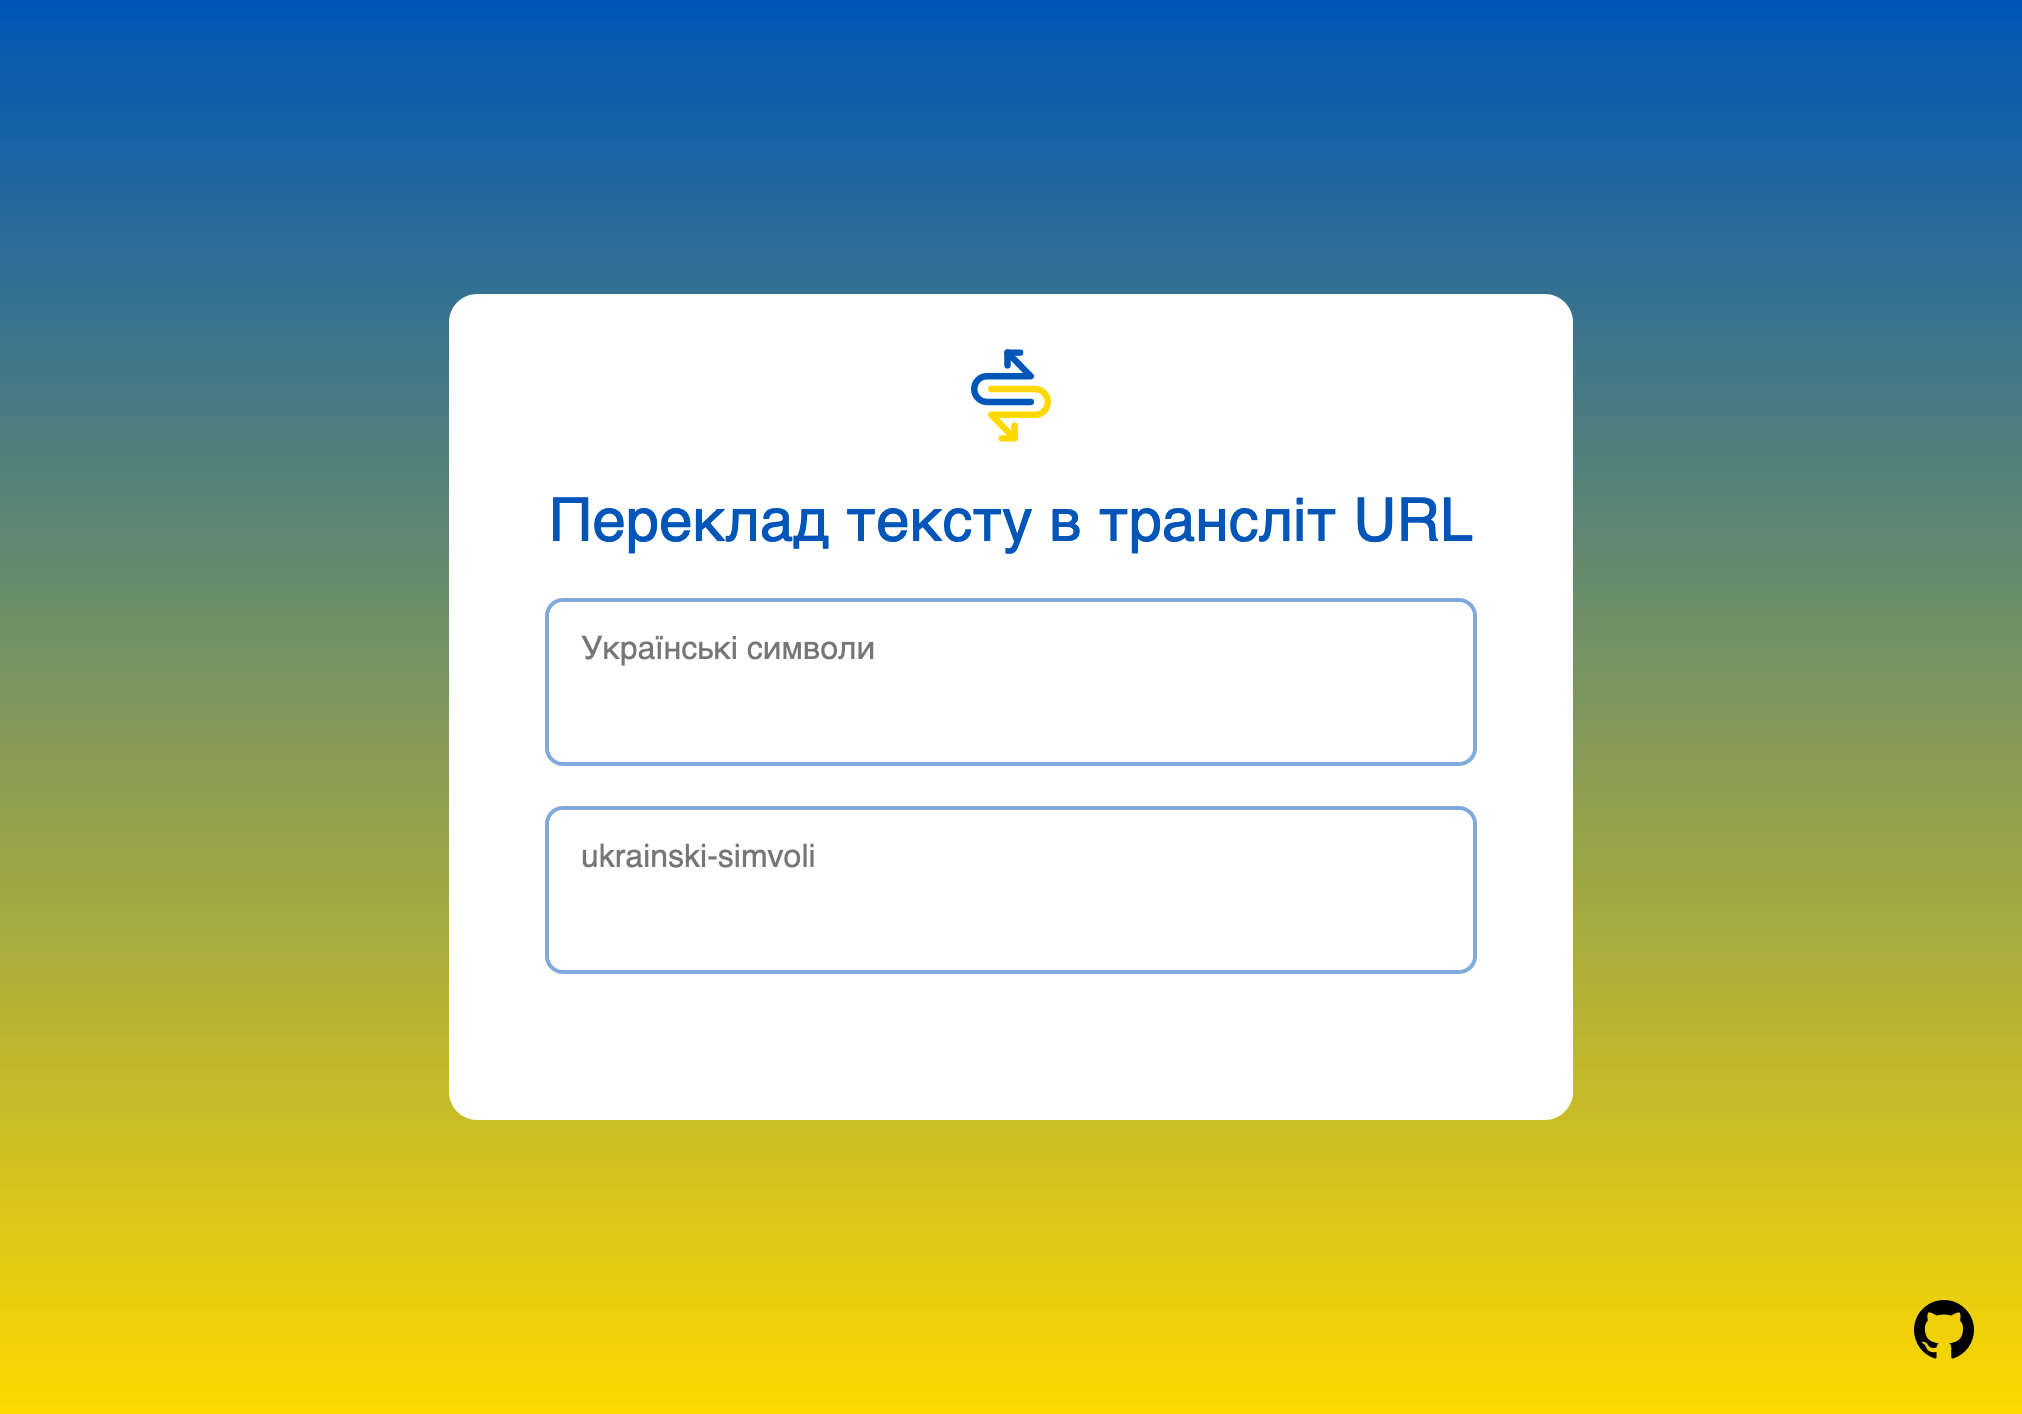
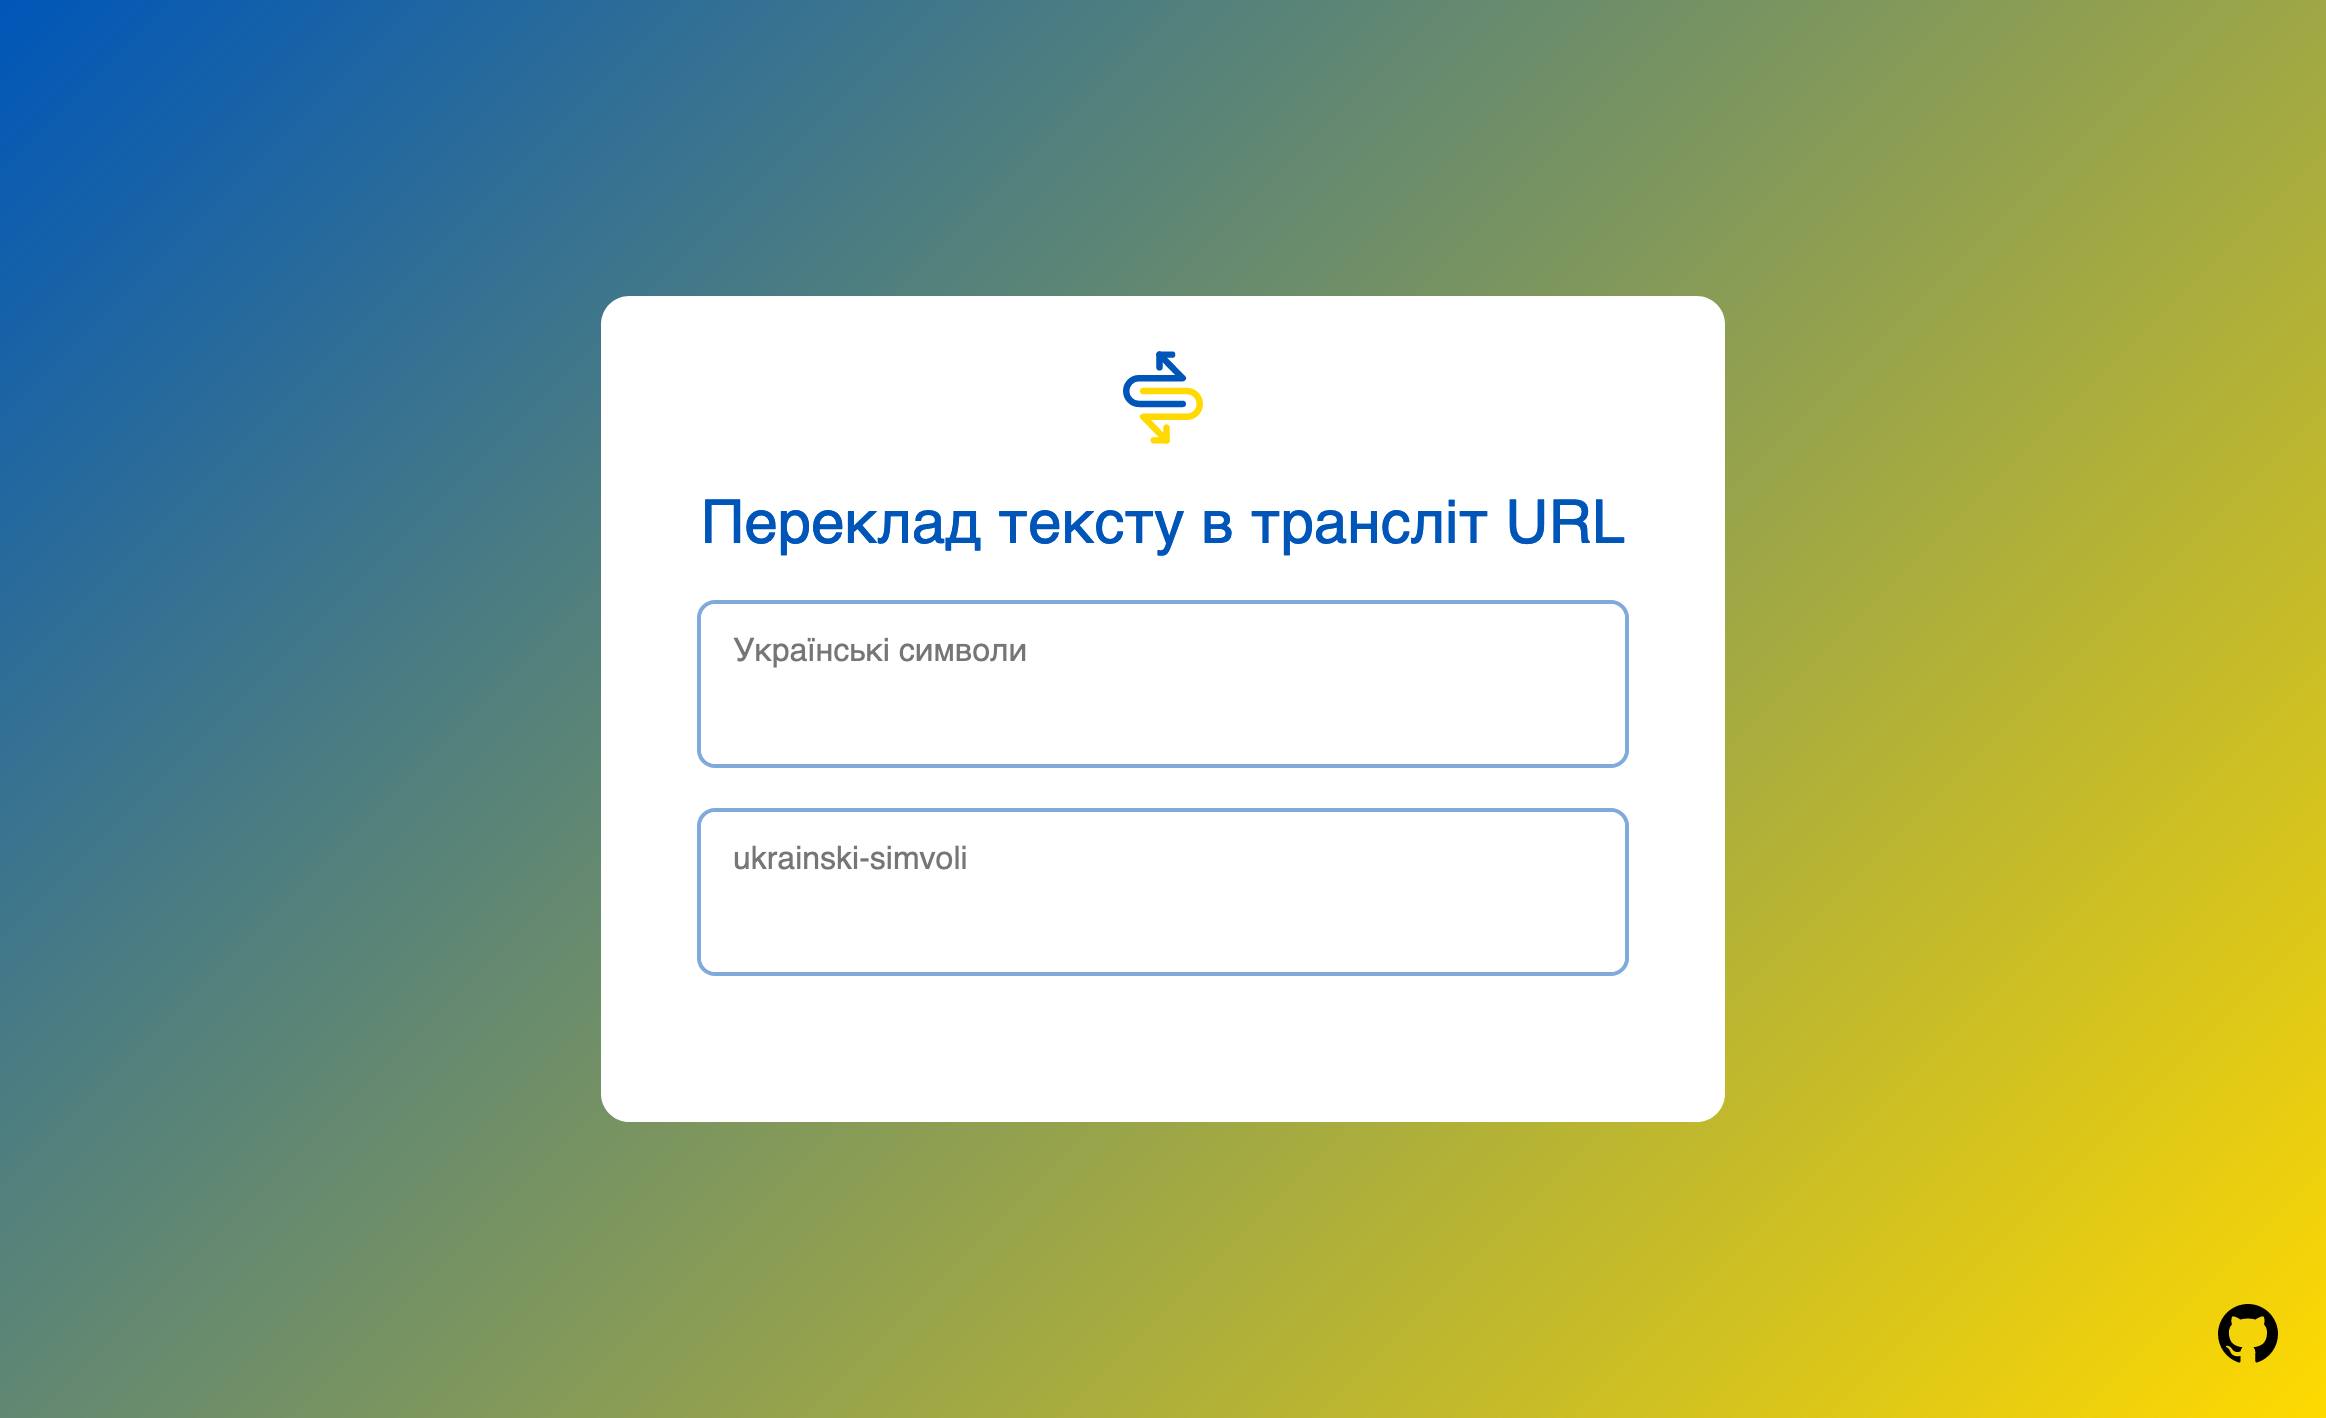
1.06

diff --git a/style.css b/style.css
@@ -19,7 +19,7 @@ html {
 
 body {
     align-items: center;
-    background: linear-gradient(0deg, var(--yellow), var(--blue));
+    background: linear-gradient(-45deg, var(--yellow), var(--blue));
     display: flex;
     flex-direction: column;
     height: 100vh;

diff --git a/README.md b/README.md
@@ -12,4 +12,4 @@
 
 
 
- v 1.05
+ v 1.06
